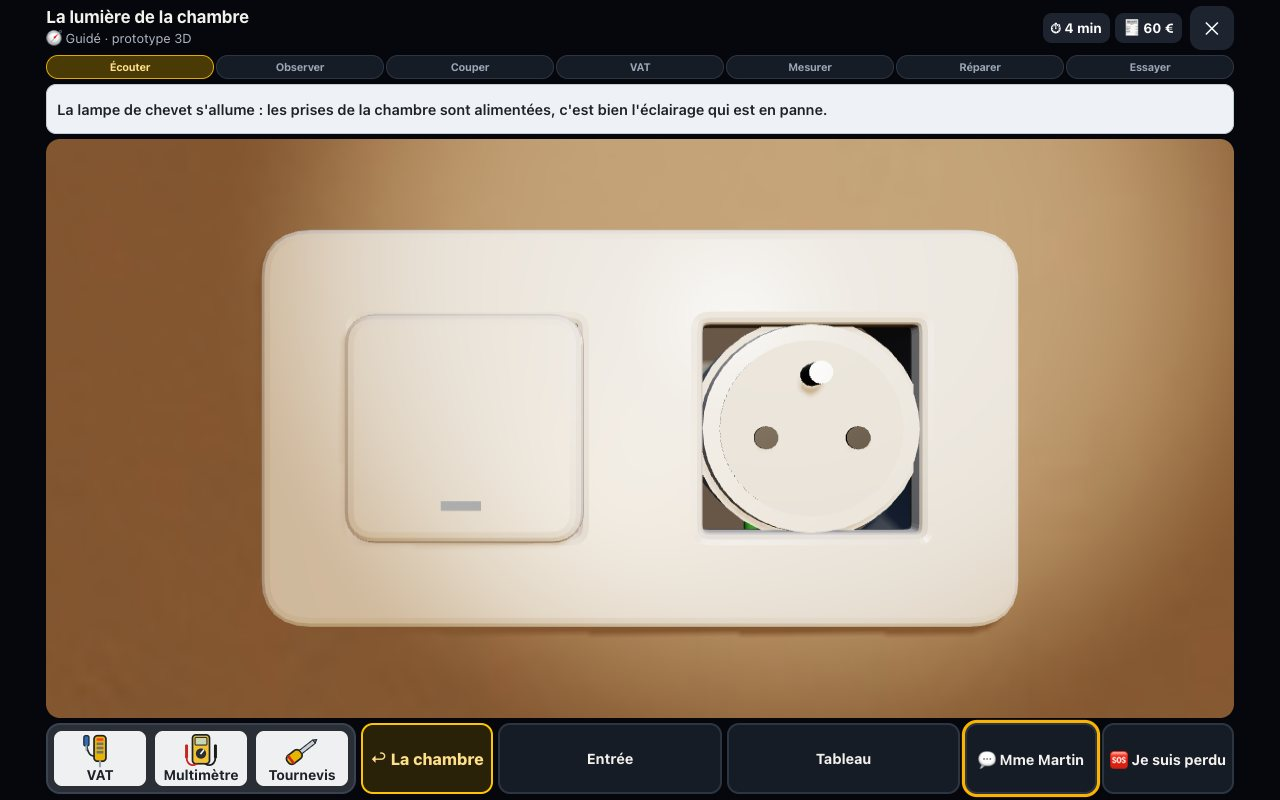
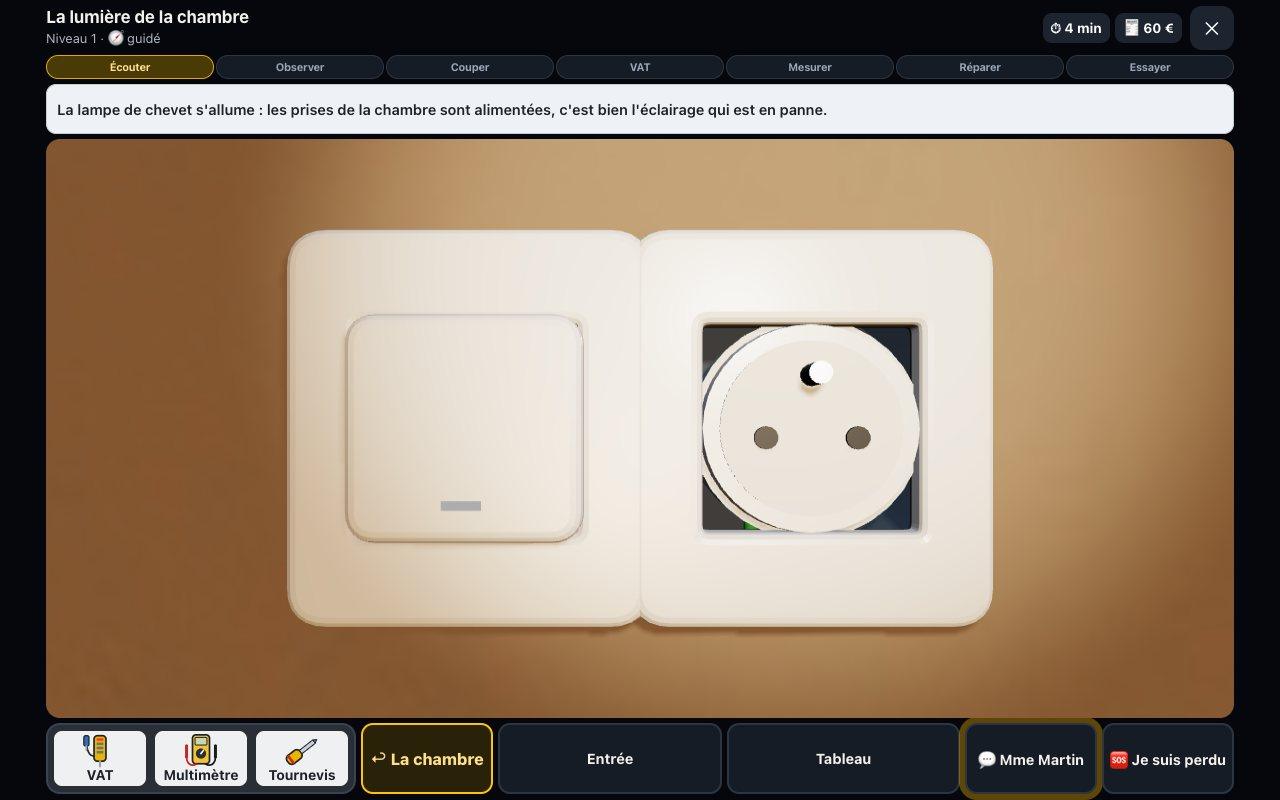
Atelier 3D, niveau 1 : retours de Charly (tâche 12.1 à 12.4)
- décor : cadre photo tourné vers la pièce (verre des cadres rendu transparent), plante et commode déplacées, la pluie tombe
- interrupteur : vue de dévissage reculée (tout le poste, les deux vis), plus de rectangles noirs, platine en acier, boîte et gaine lisibles, vue de trois quarts mécanisme sorti, la prise garde sa plaque
- tableau : les deux rangées entières ; alerte « appareil trop lent » seulement si c'est vrai, fermable, hors de l'image

diff --git a/atelier/3d/monde.js b/atelier/3d/monde.js
@@ -110,7 +110,7 @@ export function creerMonde(renderer, base = "", { rangees: RANGS = [], etiquette
   const sources = [], temoins = [];
   const decor = creerDecor({ base: `${base}niveau/`, M, mat: matD, boite: boiteD, cyl: cylD, cible, pbr, P: null, inst: null, sources, temoins, mouillables: [], depart: "entree" });
   // pose un objet du décor : au sol (x, y, z, angle) ; « avec » = objets posés dessus, dans son repère
-  const pose = (lieuId, spec, x, y, z, ry = 0) => { const g = new THREE.Group(); g.position.set(x, y, z); g.rotation.y = ry; scene.add(g); decor.poser(spec, lieuId, null, scene, g); return g; };
+  const pose = (lieuId, spec, x, y, z, ry = 0) => { const g = new THREE.Group(); g.userData.decor = spec.f || spec.t; g.position.set(x, y, z); g.rotation.y = ry; scene.add(g); decor.poser(spec, lieuId, null, scene, g); return g; };
 
   /* ---------- La chambre : x ∈ [-1.8, 1.8], z ∈ [-1.6, 1.6], hauteur 2,50 m ---------- */
   const H = 2.5;
@@ -163,13 +163,13 @@ export function creerMonde(renderer, base = "", { rangees: RANGS = [], etiquette
   // armoire, commode garnie, fauteuil avec un gilet, plante, cadres
   pose("chambre", { t: "modele", f: "GothicCabinet_01", h: 1.9, e: [0.92, 1, 0.62] }, 1.5, 0, -0.9, -Math.PI / 2);
   pose("chambre", { t: "modele", f: "GothicCommode_01", h: 0.95, avec: [
-    { t: "modele", f: "mantel_clock_01", x: 0.02, y: 0.95, z: -0.03, s: 0.9 }, { t: "modele", f: "standing_picture_frame_02", x: -0.3, y: 0.95, z: 0, r: 0.35, s: 0.8 },
-    { t: "modele", f: "ceramic_vase_01", x: 0.34, y: 0.95, z: -0.02, s: 0.75 }, { t: "livre", x: 0.3, y: 0.95, z: 0.12, r: 1.3, c: 0x2f4a6b } ] }, 1.565, 0, 0.72, -Math.PI / 2);
-  pose("chambre", { t: "modele", f: "fancy_picture_frame_02", auMur: true, s: 0.8 }, 1.795, 1.62, 0.72, -Math.PI / 2);
+    { t: "modele", f: "mantel_clock_01", x: 0.02, y: 0.95, z: -0.03, s: 0.9 }, { t: "modele", f: "standing_picture_frame_02", x: -0.3, y: 0.95, z: 0, r: 0.35 + Math.PI, s: 0.8 },
+    { t: "modele", f: "ceramic_vase_01", x: 0.34, y: 0.95, z: -0.02, s: 0.75 }, { t: "livre", x: 0.3, y: 0.95, z: 0.12, r: 1.3, c: 0x2f4a6b } ] }, 1.565, 0, 0.85, -Math.PI / 2);
+  pose("chambre", { t: "modele", f: "fancy_picture_frame_02", auMur: true, s: 0.8 }, 1.795, 1.62, 0.85, -Math.PI / 2);
   pose("chambre", { t: "modele", f: "hanging_picture_frame_03", auMur: true, s: 0.95 }, -0.45, 1.98, -1.595, 0);
-  pose("chambre", { t: "modele", f: "hanging_picture_frame_01", auMur: true, s: 0.8 }, -1.795, 1.6, 1.05, Math.PI / 2);
-  pose("chambre", { t: "modele", f: "GreenChair_01", h: 1.0, avec: [{ t: "vetement", x: 0.02, y: 0.985, z: -0.27, r: 0.1, w: 0.46, l: 0.95, c: 0x7a3f55 }] }, -1.3, 0, 0.66, 1.9);
-  pose("chambre", { t: "modele", f: "potted_plant_02", h: 0.8, sansOmbre: true }, 1.45, 0, 1.33, 2.4);
+  pose("chambre", { t: "modele", f: "fancy_picture_frame_01", auMur: true, s: 0.62 }, -1.795, 1.6, 1.05, Math.PI / 2);
+  pose("chambre", { t: "modele", f: "GreenChair_01", h: 1.0, avec: [{ t: "vetement", x: 0.02, y: 0.985, z: -0.27, r: 0.1, w: 0.46, l: 0.95, c: 0x7a3f55 }] }, -1.32, 0, 0.8, 1.9);
+  pose("chambre", { t: "modele", f: "potted_plant_02", h: 0.55, sansOmbre: true }, 1.5, 0, 0.06, 2.4);
 
   /* ---------- Plafonnier : boîte DCL, cordon, abat-jour, ampoule ---------- */
   const plafonnier = new THREE.Group();
@@ -189,19 +189,19 @@ export function creerMonde(renderer, base = "", { rangees: RANGS = [], etiquette
   appareil.position.set(0.66, 1.1, 1.6); appareil.rotation.y = Math.PI; scene.add(appareil);
   const E = 0.071; // entraxe interrupteur → prise
   const RB = 0.0335; // rayon intérieur d'une boîte d'encastrement (Ø 67 mm), profondeur 40 mm
-  const plastBoite = new THREE.MeshStandardMaterial({ color: 0x8d949c, roughness: 0.8, side: THREE.BackSide });
-  const gaineMat = new THREE.MeshStandardMaterial({ color: 0x8f9499, roughness: 0.7 });
+  const plastBoite = new THREE.MeshStandardMaterial({ color: 0x5c6670, roughness: 0.8, side: THREE.BackSide, emissive: 0x39424c, emissiveIntensity: 0.55 });
+  const gaineMat = new THREE.MeshStandardMaterial({ color: 0xb9bfc6, roughness: 0.6, emissive: 0x565c62, emissiveIntensity: 0.5 });
   const pointsGaine = [];
   for (const x of [0, E]) {
     // boîte : paroi (vue de l'intérieur), fond, entrée de gaine ICTA en bas
     const paroi = new THREE.Mesh(new THREE.CylinderGeometry(RB, RB, 0.04, 40, 1, true), plastBoite);
     paroi.rotation.x = Math.PI / 2; paroi.position.set(x, 0, -0.02); appareil.add(paroi);
-    const fond = new THREE.Mesh(new THREE.CircleGeometry(RB, 40), new THREE.MeshStandardMaterial({ color: 0x7b828a, roughness: 0.85 }));
+    const fond = new THREE.Mesh(new THREE.CircleGeometry(RB, 40), new THREE.MeshStandardMaterial({ color: 0x4a535c, roughness: 0.85, emissive: 0x2c343c, emissiveIntensity: 0.55 }));
     fond.position.set(x, 0, -0.0399); appareil.add(fond);
     const bord = new THREE.Mesh(new THREE.RingGeometry(RB, RB + 0.0025, 40), new THREE.MeshStandardMaterial({ color: 0x9aa1a8, roughness: 0.7 }));
     bord.position.set(x, 0, 0.0003); appareil.add(bord);
     const gaine = new THREE.Group(); gaine.position.set(x - 0.006, -RB + 0.004, -0.026); appareil.add(gaine);
-    for (let k = 0; k < 5; k++) { const anneau = new THREE.Mesh(new THREE.TorusGeometry(0.0072, 0.0016, 6, 18), gaineMat); anneau.rotation.x = Math.PI / 2; anneau.position.y = -k * 0.0035; gaine.add(anneau); }
+    for (let k = 0; k < 6; k++) { const anneau = new THREE.Mesh(new THREE.TorusGeometry(0.0078, 0.0018, 6, 18), gaineMat); anneau.rotation.x = Math.PI / 2; anneau.position.y = -k * 0.0035; gaine.add(anneau); }
     const bouche = new THREE.Mesh(new THREE.CircleGeometry(0.0062, 18), new THREE.MeshBasicMaterial({ color: 0x0c0c0c })); bouche.rotation.x = -Math.PI / 2; bouche.position.y = 0.0016; gaine.add(bouche);
     pointsGaine.push(new THREE.Vector3(x - 0.006, -RB + 0.006, -0.026));
   }
@@ -209,11 +209,13 @@ export function creerMonde(renderer, base = "", { rangees: RANGS = [], etiquette
   const fils = new THREE.Group(); appareil.add(fils);
   // mécanisme d'interrupteur : support métallique avec ses trous, corps, touche ; deux vis de fixation
   const meca = new THREE.Group(); appareil.add(meca);
-  const support = plaqueArrondie(0.071, 0.071, 0.0012, 0.003, [{ w: 0.046, h: 0.046, x: 0, y: 0 }], M.gris); meca.add(support);
+  const platine = new THREE.MeshStandardMaterial({ color: 0xc3c7cc, roughness: 0.35, metalness: 0.85 });
+  const support = plaqueArrondie(0.071, 0.071, 0.0012, 0.003, [{ w: 0.046, h: 0.046, x: 0, y: 0 }], platine); meca.add(support);
   for (const x of [-0.0295, 0.0295]) { // trous oblongs des vis (visibles quand la vis est enlevée)
-    const trou = new THREE.Mesh(new THREE.PlaneGeometry(0.0042, 0.0085), new THREE.MeshBasicMaterial({ color: 0x0a0a0a })); trou.position.set(x, 0, 0.0039); meca.add(trou);
+    const trou = new THREE.Mesh(new THREE.CircleGeometry(0.0022, 14), new THREE.MeshStandardMaterial({ color: 0x33373c, roughness: 0.9 })); trou.position.set(x, 0, 0.0039); meca.add(trou);
   }
-  for (const y of [0.0295, -0.0295]) { const t = new THREE.Mesh(new THREE.PlaneGeometry(0.008, 0.0035), new THREE.MeshBasicMaterial({ color: 0x0a0a0a })); t.position.set(0, y, 0.0039); meca.add(t); }
+  // griffes de la platine : deux pattes d'acier repliées vers l'arrière, en haut et en bas
+  for (const y of [0.031, -0.031]) { const g2 = boite(0.012, 0.0012, 0.014, M.acier); g2.position.set(0, y, -0.0075); meca.add(g2); }
   const corpsMeca = boite(0.045, 0.045, 0.026, M.plastiqueMat); corpsMeca.position.z = -0.008; meca.add(corpsMeca);
   const touche = new THREE.Group(); touche.position.z = 0.008; meca.add(touche);
   const toucheMesh = plaqueArrondie(0.043, 0.043, 0.006, 0.004, [], M.plastique); touche.add(toucheMesh);
@@ -249,7 +251,7 @@ export function creerMonde(renderer, base = "", { rangees: RANGS = [], etiquette
   const zoneTouche = boite(0.04, 0.04, 0.012, M.invisible); zoneTouche.position.z = 0.012; touche.add(zoneTouche); cible("touche", zoneTouche, ["inter"]);
   // prise 2P+T sur son support métallique : socle, deux alvéoles, broche de terre (en haut)
   const prise = new THREE.Group(); prise.position.x = E; appareil.add(prise);
-  const supportP = plaqueArrondie(0.071, 0.071, 0.0012, 0.003, [{ w: 0.05, h: 0.05, x: 0, y: 0 }], M.gris); prise.add(supportP);
+  const supportP = plaqueArrondie(0.071, 0.071, 0.0012, 0.003, [{ w: 0.05, h: 0.05, x: 0, y: 0 }], platine); prise.add(supportP);
   const corpsP = cyl(0.0245, 0.0245, 0.03, M.plastiqueMat, 32); corpsP.rotation.x = Math.PI / 2; corpsP.position.z = -0.012; prise.add(corpsP);
   const socle = cyl(0.0225, 0.0235, 0.012, M.plastique, 40); socle.rotation.x = Math.PI / 2; socle.position.z = 0.002; prise.add(socle);
   const puits = cyl(0.019, 0.019, 0.004, M.plastiqueMat, 40); puits.rotation.x = Math.PI / 2; puits.position.z = 0.0065; prise.add(puits);
@@ -260,7 +262,9 @@ export function creerMonde(renderer, base = "", { rangees: RANGS = [], etiquette
   const broche = cyl(0.0024, 0.0024, 0.013, M.acier, 14); broche.rotation.x = Math.PI / 2; broche.position.set(0, 0.0115, 0.0135); prise.add(broche);
   const hT = hitSphere(0.0115); hT.position.set(0, 0.0125, 0.016); prise.add(hT); cible("prise-terre", hT, ["inter-ouvert"], { type: "point", rayon: 0.0115 });
   // plaque double (deux fenêtres) avec son encoche de déclipsage sous l'interrupteur
-  const plaque = plaqueArrondie(0.152, 0.081, 0.006, 0.008, [{ w: 0.05, h: 0.05, x: -0.0355, y: 0 }, { w: 0.05, h: 0.05, x: 0.0355, y: 0 }]);
+  const plaque = plaqueArrondie(0.0705, 0.081, 0.006, 0.006, [{ w: 0.05, h: 0.05, x: 0, y: 0 }]); plaque.geometry.translate(-0.0355, 0, 0);
+  { const pleine = boite(0.05, 0.05, 0.002, M.invisible); pleine.castShadow = false; pleine.position.set(-0.0355, 0, 0.003); plaque.add(pleine); } // la plaque se touche aussi par sa fenêtre (quand on la tient)
+  const plaquePrise = plaqueArrondie(0.0705, 0.081, 0.006, 0.006, [{ w: 0.05, h: 0.05, x: 0, y: 0 }]); plaquePrise.position.set(E, 0, 0.0015); appareil.add(plaquePrise);
   const encoche = boite(0.012, 0.0022, 0.004, M.noir); encoche.position.set(-0.0355, -0.0405, 0.004); plaque.add(encoche);
   const groupePlaque = new THREE.Group(); groupePlaque.position.set(E / 2, 0, 0.0015); appareil.add(groupePlaque); groupePlaque.add(plaque);
   plaque.position.set(0, 0, 0);
@@ -301,8 +305,8 @@ export function creerMonde(renderer, base = "", { rangees: RANGS = [], etiquette
   pose("entree", { t: "modele", f: "ClassicConsole_01", s: 0.62, avec: [
     { t: "cles", x: -0.3, y: 0.59, z: 0.03 }, { t: "courrier", x: -0.02, y: 0.59, z: 0.02 }, { t: "modele", f: "standing_picture_frame_01", x: 0.3, y: 0.59, z: -0.03, r: -0.3, s: 0.85 }, { t: "modele", f: "potted_plant_04", x: 0.14, y: 0.59, z: 0.03 } ] }, XG + 0.16, 0, 2.15, Math.PI / 2);
   pose("entree", { t: "modele", f: "ornate_mirror_01", auMur: true, s: 1.05 }, XG + 0.005, 1.5, 2.15, Math.PI / 2);
-  pose("entree", { t: "portemanteau" }, XG + 0.005, 1.74, 3.2, Math.PI / 2);
-  pose("entree", { t: "modele", f: "rubber_boots", s: 0.9, e: [0.55, 1, 1] }, XG + 0.17, 0, 3.72, Math.PI / 2 - 0.2);
+  pose("entree", { t: "portemanteau" }, XG + 0.005, 1.74, 3.32, Math.PI / 2);
+  pose("entree", { t: "modele", f: "rubber_boots", s: 0.9, e: [0.55, 1, 1] }, XG + 0.17, 0, 3.84, Math.PI / 2 - 0.2);
   pose("entree", { t: "modele", f: "painted_wooden_bench", s: 0.72 }, 0.41, 0, 3.98, -Math.PI / 2);
   pose("entree", { t: "modele", f: "fancy_picture_frame_01", auMur: true, s: 0.62 }, 0.595, 1.6, 2.25, -Math.PI / 2);
   pose("entree", { t: "modele", f: "potted_plant_01", h: 0.85, sansOmbre: true }, 0.36, 0, 1.98, 0.8);

diff --git a/atelier/3d/jeu3d.js b/atelier/3d/jeu3d.js
@@ -72,10 +72,14 @@ function cadreProche(vue) {
   const k = largeurVue();
   if (vue === "inter") {
     obj = W.appareil;
-    if (e.mecaSorti) { const d = 0.135 / k; p = [0.028, -0.03 - d * 0.22, 0.03 + d]; c = [0.028, -0.03, 0.03]; }
-    else if (!e.plaque) { const d = 0.085 / k; p = [0.004, -0.004, d]; c = [0.004, -0.004, 0]; }
+    // mécanisme sorti : vue de trois quarts, à distance de bras (le mur, la boîte, la platine et les bornes) ; plus près au téléphone
+    if (e.mecaSorti) { const d = (camera.aspect < 1 ? 0.15 : 0.2) / k; p = [0.03 - d * 0.28, -0.025 - d * 0.12, 0.03 + d * 0.95]; c = [0.03, -0.025, 0.03]; }
+    // plaque retirée : tout le poste (interrupteur et prise) avec un peu de mur autour
+    else if (!e.plaque) { const d = 0.2 / k; p = [0.0355 - d * 0.12, -d * 0.06, d]; c = [0.0355, 0, 0]; }
     else { const d = 0.162 / k; p = [0.0355, 0, d]; c = [0.0355, 0, 0]; }
-  } else if (vue === "tableau") { obj = W.tableau; const d = Math.max(0.3 / k, 0.54); p = [0, 0.02, 0.1 + d]; c = [0, 0.02, 0.1]; }
+  } else if (vue === "tableau") { // les deux rangées entières, bandes d'étiquettes comprises
+    obj = W.tableau; const ys = W.rangees.map((x) => x.position.y), ym = (Math.max(...ys) + Math.min(...ys)) / 2 + 0.01, haut = Math.max(...ys) - Math.min(...ys) + 0.3;
+    const d = Math.max(0.3 / k, haut / (2 * Math.tan((FOV_PROCHE / 2) * RAD))); p = [0, ym, 0.1 + d]; c = [0, ym, 0.1]; }
   else if (vue === "rangee1" || vue === "rangee2") { obj = W.tableau; const y = W.rangees[vue === "rangee1" ? 0 : 1].position.y; const d = Math.max(0.112 / k, 0.27); p = [0, y + 0.006, 0.165 + d]; c = [0, y + 0.014, 0.165]; } // la rangée et sa bande d'étiquettes
   else if (vue === "plafonnier") return orient([0.3, 1.55, 0.6], [0, 2.05, 0]);
   obj.updateMatrixWorld(true);
@@ -192,9 +196,9 @@ function majMain() {
 }
 function poserPlaqueEnMain() {
   const d = MAIN, demiH = d * Math.tan((camera.fov / 2) * RAD), demiL = demiH * camera.aspect;
-  W.plaque.position.set(-0.62 * demiL, -0.8 * demiH, -d);
+  W.plaque.position.set(-0.46 * demiL, -0.66 * demiH, -d);
   W.plaque.rotation.set(-0.5, 0, 0.12);
-  W.plaque.scale.setScalar((0.55 * demiL) / 0.152);
+  W.plaque.scale.setScalar((0.3 * demiL) / 0.0705);
 }
 
 /* =====================================================================
@@ -224,8 +228,8 @@ function majFils() {
   const dansBorne = bL.clone().add(new THREE.Vector3(0, -0.002, 0.002));
   const k = e.repare || e.filSerre ? 1 : engage;
   const bout = libre.clone().lerp(dansBorne, k);
-  const courbeR = tube("rouge", chemin(g0, bout, e.mecaSorti ? 0.006 : 0.003), W.M.rouge);
-  tube("orange", chemin(g0.clone().add(new THREE.Vector3(0.004, 0, 0)), b1, e.mecaSorti ? 0.006 : 0.003), W.M.orange);
+  const courbeR = tube("rouge", chemin(g0, bout, e.mecaSorti ? 0.016 : 0.003), W.M.rouge);
+  tube("orange", chemin(g0.clone().add(new THREE.Vector3(0.004, 0, 0)), b1, e.mecaSorti ? 0.016 : 0.003), W.M.orange);
   // cuivre dénudé au bout du fil rouge
   const dir = courbeR.getTangentAt(1).normalize();
   W.boutRouge.position.copy(bout).addScaledVector(dir, 0.003);
@@ -380,7 +384,7 @@ async function plaqueGeste() {
 }
 function cibleMainPlaque() {
   const d = MAIN, demiH = d * Math.tan((camera.fov / 2) * RAD), demiL = demiH * camera.aspect;
-  return { p: new THREE.Vector3(-0.62 * demiL, -0.8 * demiH, -d), q: new THREE.Quaternion().setFromEuler(new THREE.Euler(-0.5, 0, 0.12)), s: (0.55 * demiL) / 0.152 };
+  return { p: new THREE.Vector3(-0.46 * demiL, -0.66 * demiH, -d), q: new THREE.Quaternion().setFromEuler(new THREE.Euler(-0.5, 0, 0.12)), s: (0.3 * demiL) / 0.0705 };
 }
 async function visGeste(i) {
   const v = W.vis[i];
@@ -417,7 +421,7 @@ async function mecaGeste() {
   e.mecaSorti = sortir; temps(1); sons.clip();
   const de = sortir ? 0 : 1;
   const cam = recadrer();
-  await anime(800, (t) => { const u = de + (sortir ? t : -t); m.position.set(0, -0.022 * u, 0.045 * u); m.rotation.x = -72 * RAD * u; majFils(); });
+  await anime(800, (t) => { const u = de + (sortir ? t : -t); m.position.set(0, -0.026 * u, 0.06 * u); m.rotation.x = -72 * RAD * u; majFils(); });
   await cam; majFils();
   if (sortir) {
     dire("Mécanisme sorti : bornes L et 1 visibles. Le fil rouge n'est plus dans sa borne !");
@@ -906,7 +910,7 @@ function image(now) {
   if (attente && !occupe && !transition && !anims.length) { const a = attente; attente = null; toucherEcran(a.x, a.y); }
   // Fluidité : l'image n'est recalculée que si quelque chose bouge (la tête, la frontale, un objet, la pluie à la fenêtre si on la voit).
   const fenetreVue = W.vitrePluie && champ.setFromProjectionMatrix(matChamp.multiplyMatrices(camera.projectionMatrix, camera.matrixWorldInverse)).intersectsObject(W.vitrePluie);
-  if (fenetreVue) W.pluie.offset.y -= 0.012;
+  if (fenetreVue) { W.pluie.offset.y += 0.012; W.pluie.offset.x += 0.0012; }
   const p = camera.position, c = frontaleCible, sig = `${p.x.toFixed(4)},${p.y.toFixed(4)},${p.z.toFixed(4)},${regard.yaw.toFixed(4)},${regard.pitch.toFixed(4)},${camera.fov.toFixed(2)},${c.x.toFixed(3)},${c.y.toFixed(3)},${lumiere.toFixed(3)},${e.outil},${e.lecture}`;
   if (fenetreVue || transition || anims.length || sondesEnVol() || (secousse && now - secousse < 600) || sig !== signature || !decorPret) reveiller(3);
   signature = sig;
@@ -920,8 +924,9 @@ function image(now) {
   if (now - fps.t0 >= 1000) {
     fps.val = Math.round((fps.n * 1000) / (now - fps.t0)); fps.n = 0; fps.t0 = now;
     if (DEBUG) racine.querySelector(".j-fps").textContent = `${fps.val} i/s`;
-    if (document.visibilityState === "visible" && fps.val < 20) fps.bas++; else fps.bas = 0;
-    if (fps.bas >= 5 && !fps.propose) { fps.propose = true; racine.querySelector(".j-lent").hidden = false; }
+    // l'alerte « appareil trop lent » : seulement décor chargé, définition déjà au plus bas, et moins de 12 images par seconde pendant 8 secondes de suite
+    if (decorPret && document.visibilityState === "visible" && fps.val < 12 && renderer.getPixelRatio() <= 0.76) fps.bas++; else fps.bas = 0;
+    if (fps.bas >= 8 && !fps.propose) { fps.propose = true; racine.querySelector(".j-lent").hidden = false; }
     window.__fps = fps.val;
   }
 }
@@ -1039,8 +1044,8 @@ function gabarit() {
   <ol class="t-etapes" aria-label="Méthode du dépanneur"></ol>
   <div class="t-objectif" role="status"></div>
   <div class="j-scene"><div class="j-anneaux" aria-hidden="true"></div><button type="button" class="j-fleche" hidden aria-label="Tourner la tête vers l'objet demandé">➜</button><div class="j-flash"></div><output class="j-lecture" hidden aria-live="polite" aria-label="Valeur mesurée"></output>
-    <p class="j-lent" hidden>Ton appareil a du mal à afficher la 3D. <a href="atelier-ancien.html?i=chambre">Jouer à la version simple</a></p>
     ${DEBUG ? '<output class="j-fps">…</output>' : ""}<div class="j-voile" hidden></div><div class="j-charge"><b>Mme Martin ouvre la porte…</b><span><i></i></span></div></div>
+  <p class="j-lent" hidden><span>Ton appareil a du mal à afficher la 3D. <a href="atelier-ancien.html?i=chambre">Jouer à la version simple</a></span><button type="button" aria-label="Fermer ce message" onclick="this.parentNode.hidden = true">✕</button></p>
   <div class="j-barre">
     <div class="j-caisse" role="group" aria-label="Caisse à outils">
       <button type="button" data-outil="vat" aria-pressed="false"><svg viewBox="0 0 48 40" aria-hidden="true"><rect x="17" y="2" width="14" height="30" rx="4" fill="#e9b400" stroke="#1d2228" stroke-width="2"/><rect x="20" y="5" width="8" height="3" rx="1" fill="#ff3b2f"/><rect x="20" y="10" width="8" height="3" rx="1" fill="#6b7480"/><rect x="20" y="15" width="8" height="3" rx="1" fill="#6b7480"/><rect x="20" y="20" width="8" height="3" rx="1" fill="#6b7480"/><path d="M24 32v6" stroke="#9aa3ad" stroke-width="2.5" stroke-linecap="round"/><path d="M17 26C8 26 8 12 8 6" fill="none" stroke="#1d2228" stroke-width="2"/><rect x="5" y="2" width="6" height="12" rx="2" fill="#2f6fb8" stroke="#1d2228" stroke-width="1.5"/><path d="M8 14v5" stroke="#9aa3ad" stroke-width="2" stroke-linecap="round"/></svg><b>VAT</b></button>
@@ -1115,7 +1120,7 @@ async function demarrer() {
     }); }
   // pour les contrôles automatiques
   window.__atelier3d = {
-    e: () => e, guide: () => guideCible(), cam: () => camera, image: () => { forcer = true; image(performance.now()); forcer = false; }, rendu: () => renderer, decor: () => W.decor.suivi, regard: () => regard, definition: () => renderer.getPixelRatio(),
+    e: () => e, W: () => W, guide: () => guideCible(), cam: () => camera, image: () => { forcer = true; image(performance.now()); forcer = false; }, rendu: () => renderer, decor: () => W.decor.suivi, regard: () => regard, definition: () => renderer.getPixelRatio(),
     cibles: () => W.cibles.filter(actif).map((c) => ({ id: c.id, type: c.type, ...(c.type === "point" ? rayonEcran(c) : {}) })),
     toucher: (id) => { const c = W.cibles.find((x) => x.id === id); return c.type === "point" ? rayonEcran(c) : ecranDe(centreCible(c)); },
     occupe: () => occupe || !!transition || anims.length > 0 || !!attente || sondesEnVol(),

diff --git a/atelier/3d/atelier3d.css b/atelier/3d/atelier3d.css
@@ -19,7 +19,10 @@
 .j-flash.zap { animation: j-zap 1.6s ease-out forwards; }
 @keyframes j-zap { 0% { opacity: 1; background: #eaf2ff; } 8% { opacity: 1; background: #fff; } 14% { opacity: 1; background: #000; } 70% { opacity: 1; background: #000; } 100% { opacity: 0; background: #000; } }
 .j-fps { position: absolute; left: 6px; bottom: 6px; font: 700 12px ui-monospace, monospace; color: #7dff9a; background: rgba(0, 0, 0, 0.6); padding: 2px 6px; border-radius: 6px; pointer-events: none; }
-.j-lent { position: absolute; left: 8px; right: 8px; bottom: 8px; margin: 0; padding: 8px 10px; border-radius: 10px; background: rgba(20, 24, 32, 0.92); font-size: 0.85rem; }
+.j-lent { display: flex; align-items: center; gap: 10px; margin: 6px 8px 0; padding: 6px 10px; border-radius: 10px; background: rgba(20, 24, 32, 0.92); font-size: 0.85rem; }
+.j-lent[hidden] { display: none; }
+.j-lent span { flex: 1; }
+.j-lent button { border: 0; background: none; color: #fff; font-size: 1rem; padding: 4px 8px; cursor: pointer; }
 .j-lent a { color: #ffd84a; }
 .j-voile { position: absolute; inset: 0; z-index: 5; display: flex; align-items: center; justify-content: center; padding: 10px; background: rgba(4, 6, 10, 0.6); }
 .j-panneau { background: #fffdf7; color: #1d2228; border-radius: 16px; padding: 14px 16px 0; width: min(560px, 100%); max-height: 100%; overflow: auto; box-sizing: border-box; display: flex; flex-direction: column; }

diff --git a/atelier/3d/niveau/decor.js b/atelier/3d/niveau/decor.js
@@ -22,6 +22,8 @@ export function creerDecor({ base, M, mat, boite, cyl, cible, pbr, P, inst, sour
     // un verre « à transmission » oblige à dessiner toute la scène deux fois : une simple transparence suffit ici
     // un objet plein n'a pas besoin d'être dessiné des deux côtés (deux fois moins de travail) ; les feuillages, si
     for (const m of [].concat(o.material)) if (m.side === THREE.DoubleSide && !m.alphaTest && !m.transparent && !/plant|leaf|leaves|fern|calathea|fringe|hat|glove|hose/i.test(m.name)) m.side = THREE.FrontSide;
+    // le verre des cadres photo : sans ce réglage il est opaque et noir, et cache la photo
+    for (const m of [].concat(o.material)) if (/_glass$/i.test(m.name) && !(m.transmission > 0)) { m.transparent = true; m.opacity = 0.1; m.roughness = 0.05; m.metalness = 0; m.depthWrite = false; o.castShadow = false; }
     for (const m of [].concat(o.material)) if (m.transmission > 0) { m.transmission = 0; m.transparent = true; m.opacity = 0.22; m.roughness = 0.05; m.depthWrite = false; o.castShadow = false; }
   }); res(g.scene); }, undefined, rej)));
   // pose un modèle dans le groupe g : au sol (centré, pieds à y = 0) ou au mur (centré, dos contre le mur)
